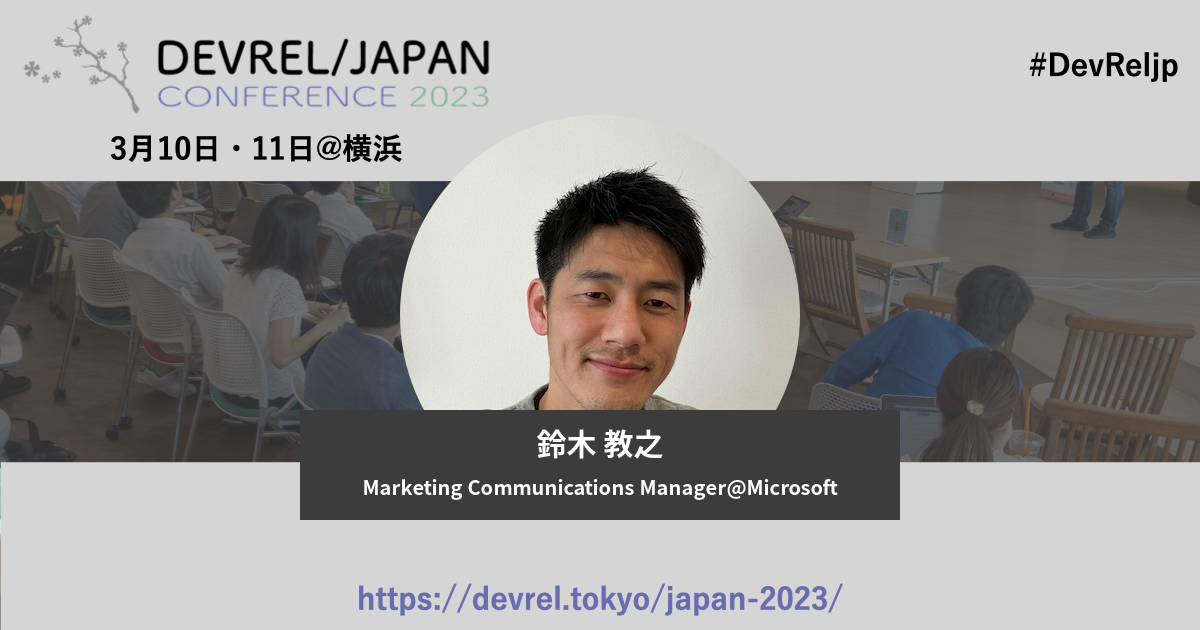
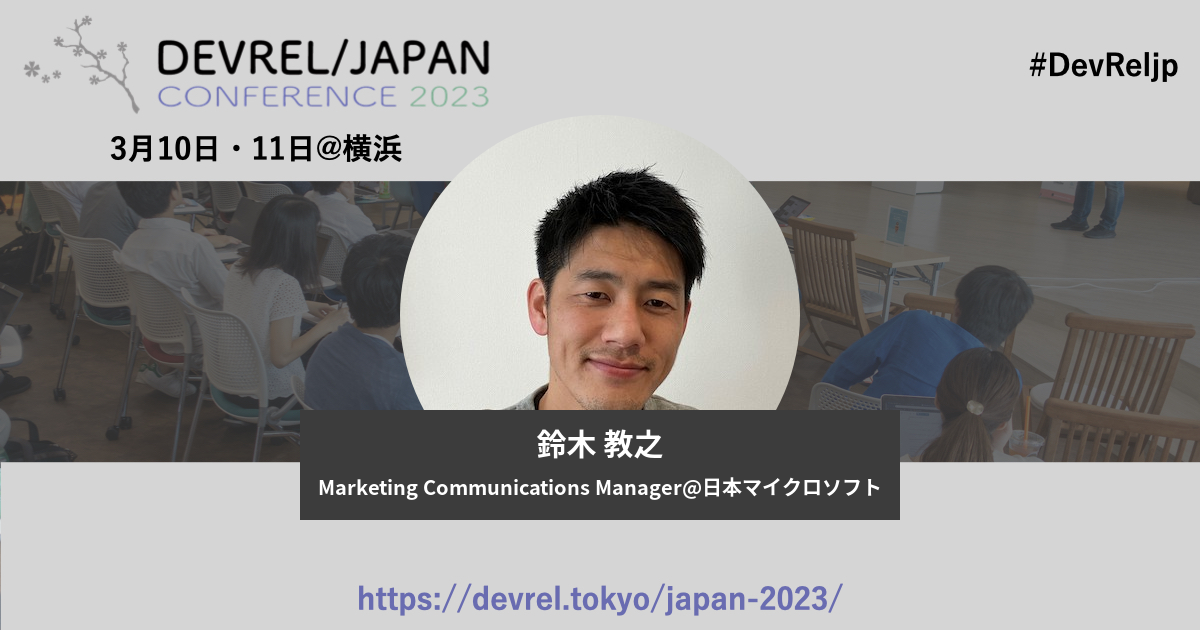
auto update

Changed region(s): [[0.2467, 0.754, 0.74, 0.8143]]

diff --git a/organizers/nori.md b/organizers/nori.md
@@ -1,9 +1,9 @@
 ---
 layout: person
 permalink: /organizers/nori/
-title: 鈴木 教之@Microsoft
+title: 鈴木 教之@日本マイクロソフト
 ogp: /japan-2023/image/ogp/nori.jpg
 type: organizer
 id: nori
 ---
-IT系出版社にて技術書籍の編集やWebメディアの運営、テックカンファレンスの企画など10年以上の編集経験を経て、畑違いの外資系企業に。現在は日本マイクロソフト株式会社でMicrosoft Azureのマーケティングコミュニケーションを担当。好きなオープンソースはRe:VIEW。VS Code Meetupをはじめ多くの技術コミュニティを運営している。
+IT系出版社にて技術書籍の編集やWebメディアの運営、テックカンファレンスの企画など10年以上の編集経験を経て、畑違いの外資系企業に。現在は日本マイクロソフト株式会社でMicrosoft Azureのマーケティングコミュニケーションを担当。VS Code Meetupをはじめ多くの技術コミュニティを運営している。
